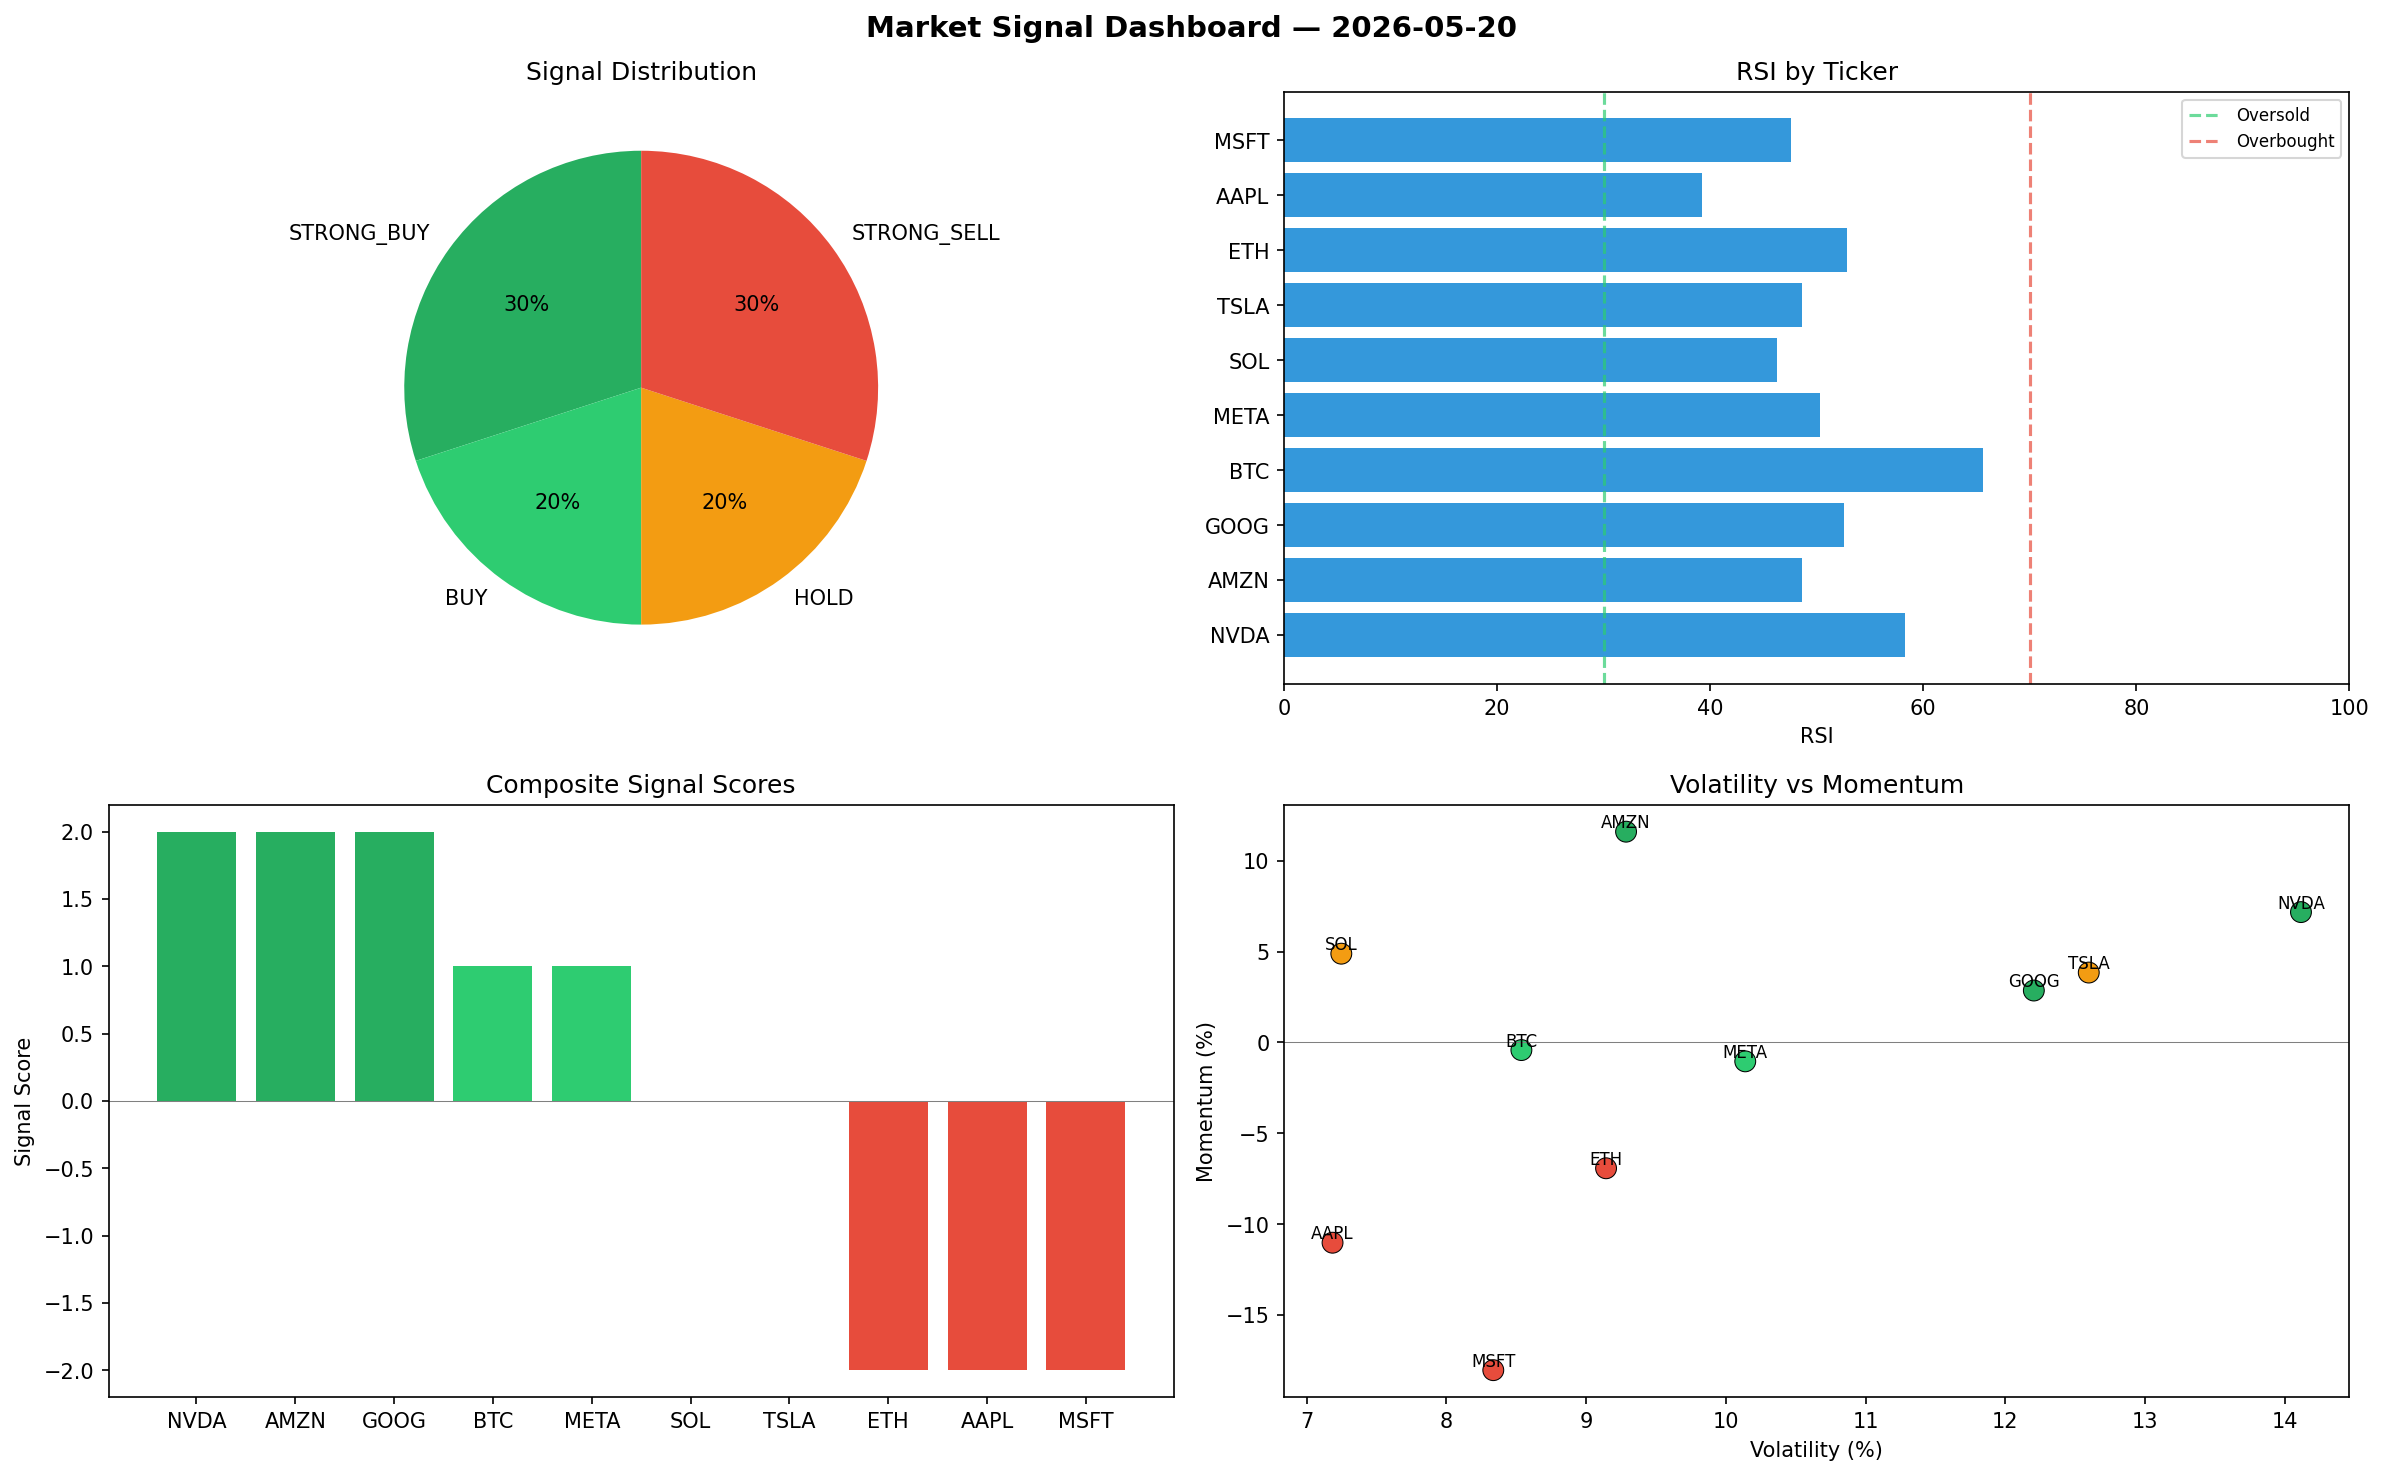
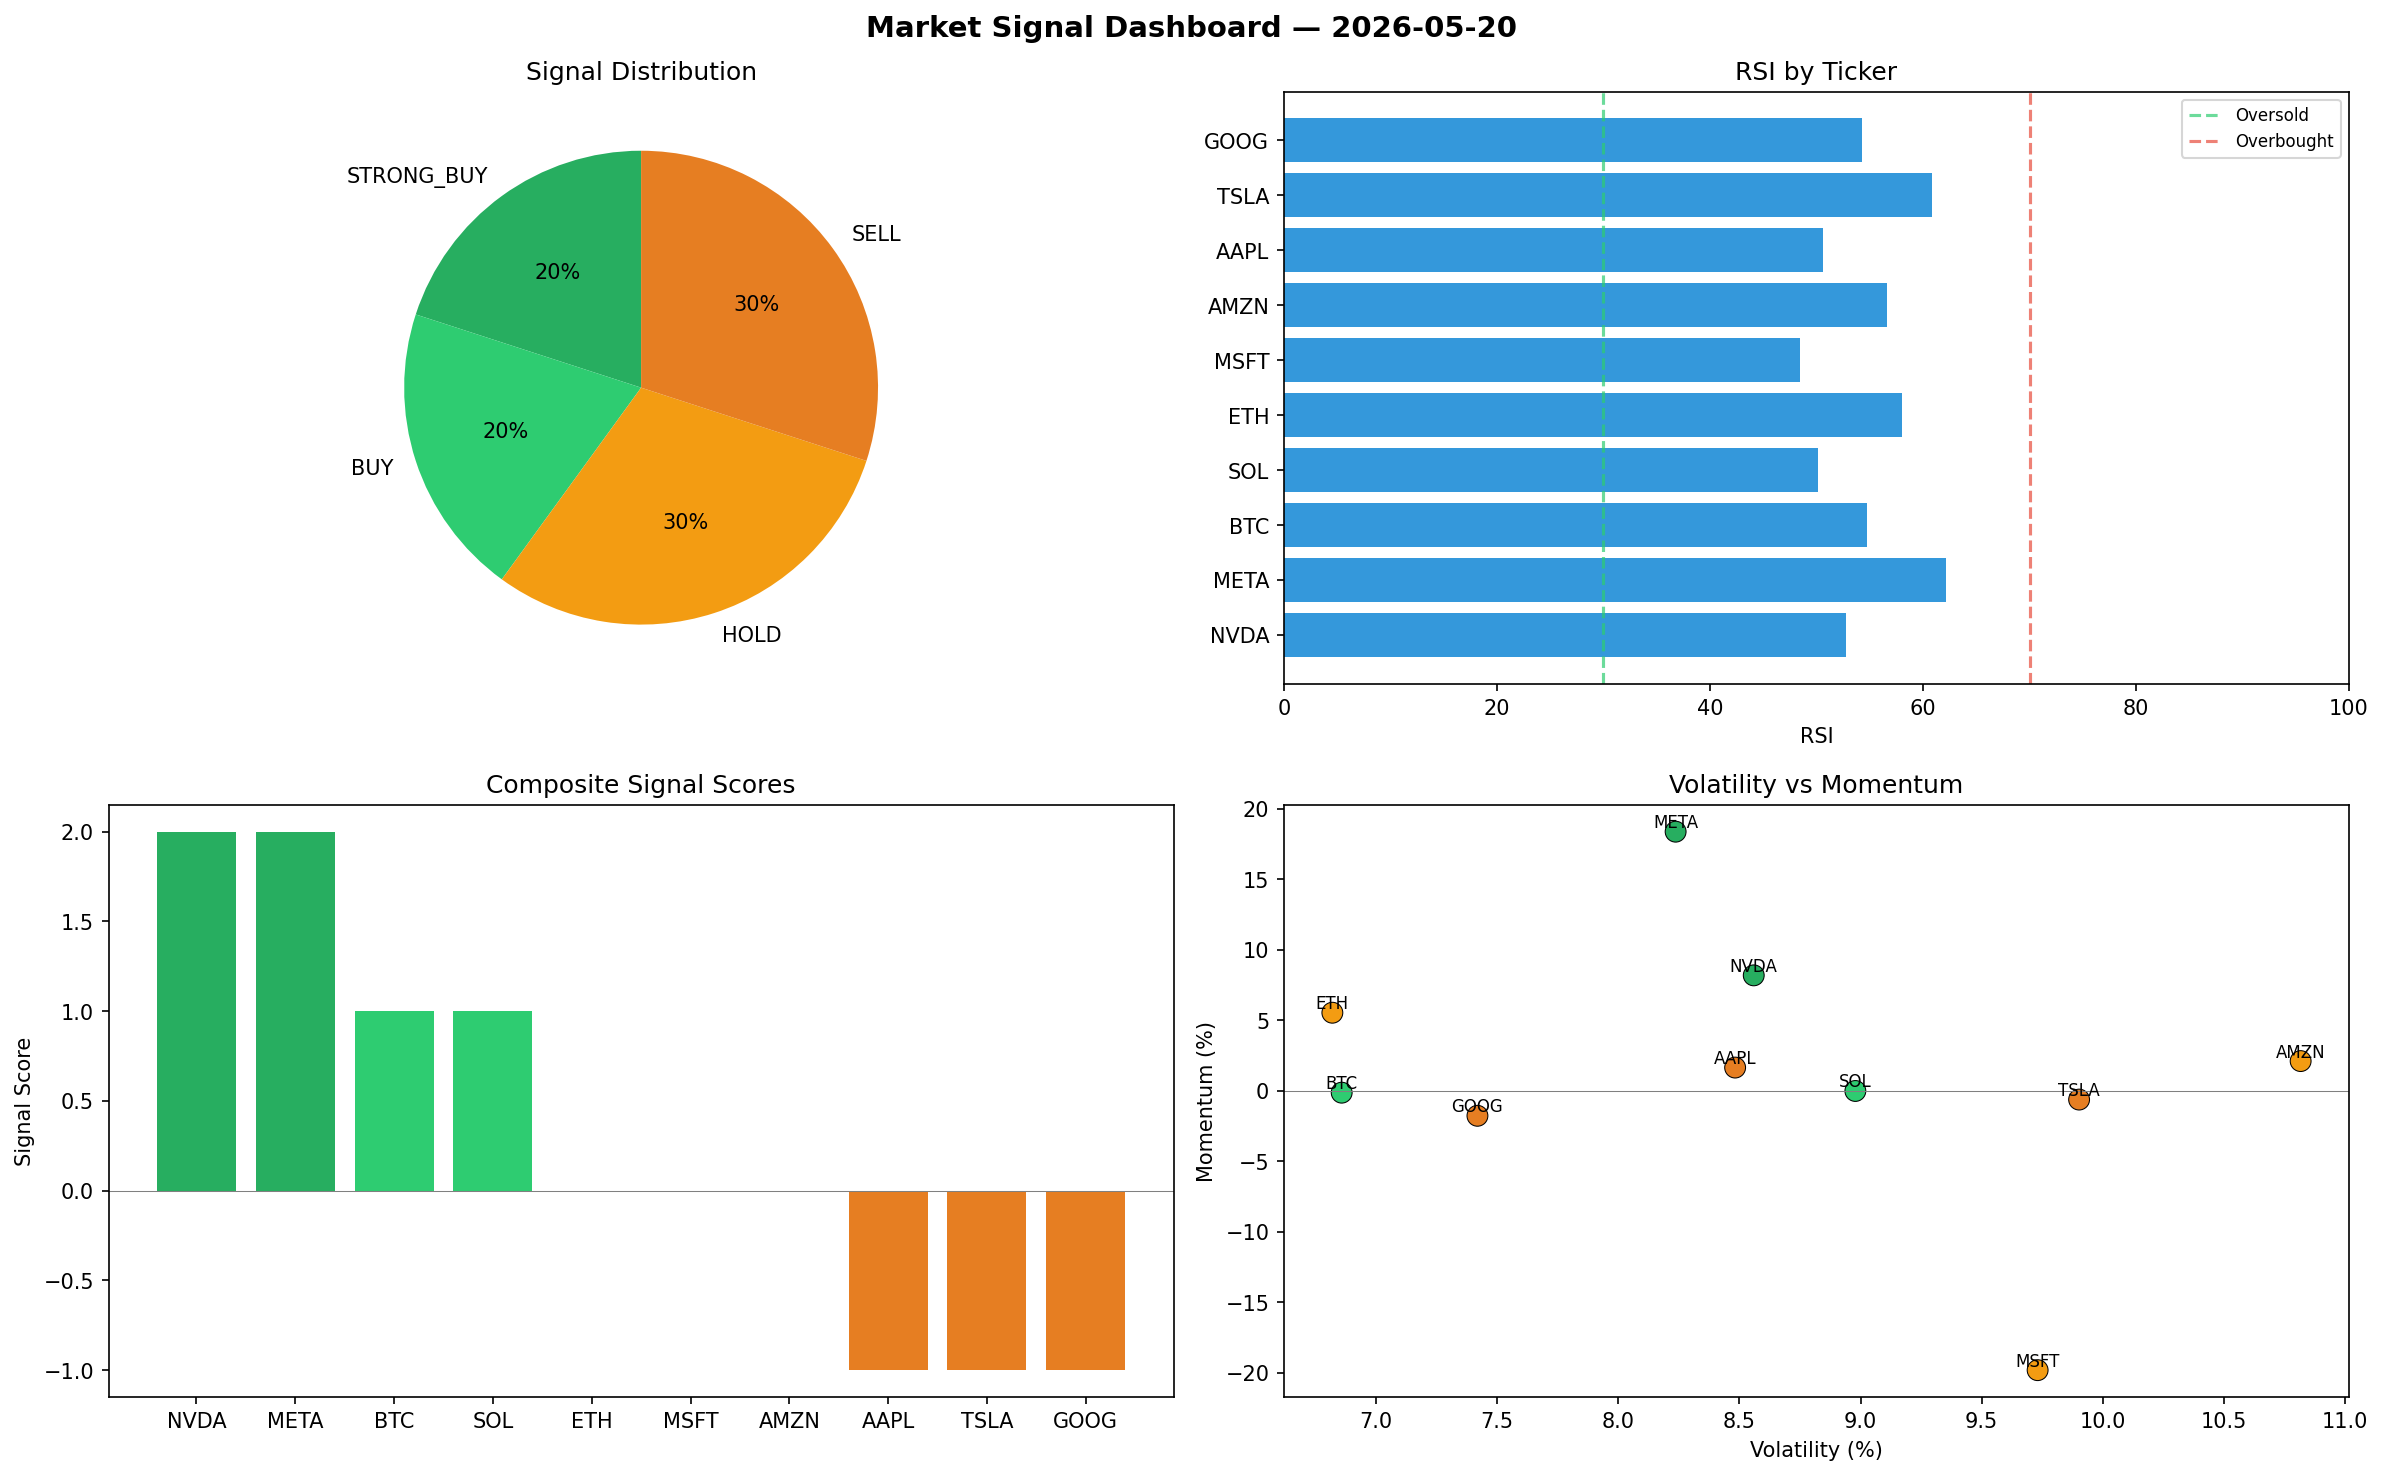
automated-bots: market signals 2026-05-20T22:08

diff --git a/logs/2026-05-20.md b/logs/2026-05-20.md
@@ -1,6 +1,6 @@
 # Market Signal Report — 2026-05-20
 
-**Run ID:** `4e20573279` | **Buy:** 5 | **Sell:** 3 | **Hold:** 2
+**Run ID:** `d71d6f0fff` | **Buy:** 4 | **Sell:** 3 | **Hold:** 3
 
 ![Dashboard](2026-05-20_dashboard.png)
 
@@ -8,28 +8,28 @@
 
 | Ticker | Price | Signal | Score | RSI | Momentum | Confidence |
 |--------|-------|--------|-------|-----|----------|------------|
-| NVDA | $4217.77 | **STRONG_BUY** | 2 | 58.26 | 0.0718 | 0.5 |
-| AMZN | $4406.03 | **STRONG_BUY** | 2 | 48.64 | 0.1161 | 0.5 |
-| GOOG | $2243.51 | **STRONG_BUY** | 2 | 52.55 | 0.0286 | 0.5 |
-| BTC | $721.15 | **BUY** | 1 | 65.65 | -0.0042 | 0.25 |
-| META | $2515.8 | **BUY** | 1 | 50.28 | -0.0104 | 0.25 |
-| SOL | $4627.28 | **HOLD** | 0 | 46.3 | 0.0489 | 0.0 |
-| TSLA | $2729.07 | **HOLD** | 0 | 48.57 | 0.0385 | 0.0 |
-| ETH | $2180.41 | **STRONG_SELL** | -2 | 52.84 | -0.0693 | 0.5 |
-| AAPL | $1427.4 | **STRONG_SELL** | -2 | 39.21 | -0.1103 | 0.5 |
-| MSFT | $2759.08 | **STRONG_SELL** | -2 | 47.55 | -0.1805 | 0.5 |
+| NVDA | $2954.58 | **STRONG_BUY** | 2 | 52.79 | 0.0817 | 0.5 |
+| META | $2455.74 | **STRONG_BUY** | 2 | 62.14 | 0.1836 | 0.5 |
+| BTC | $3369.87 | **BUY** | 1 | 54.7 | -0.0015 | 0.25 |
+| SOL | $1156.14 | **BUY** | 1 | 50.11 | -0.0003 | 0.25 |
+| ETH | $3103.37 | **HOLD** | 0 | 58.05 | 0.0552 | 0.0 |
+| MSFT | $993.83 | **HOLD** | 0 | 48.48 | -0.1983 | 0.0 |
+| AMZN | $3183.41 | **HOLD** | 0 | 56.66 | 0.0209 | 0.0 |
+| AAPL | $733.9 | **SELL** | -1 | 50.62 | 0.0163 | 0.25 |
+| TSLA | $2025.84 | **SELL** | -1 | 60.84 | -0.0064 | 0.25 |
+| GOOG | $242.88 | **SELL** | -1 | 54.3 | -0.0179 | 0.25 |
 
 ## Delta vs Yesterday
 
 | Ticker | Today | Yesterday | Price Change | Signal Changed |
 |--------|-------|-----------|-------------|----------------|
-| NVDA | STRONG_BUY | HOLD | 📈 103.62% | ⚠ YES |
-| AMZN | STRONG_BUY | STRONG_BUY | 📈 103.79% | — |
-| GOOG | STRONG_BUY | HOLD | 📉 -39.7% | ⚠ YES |
-| BTC | BUY | BUY | 📉 -64.0% | — |
-| META | BUY | STRONG_SELL | 📈 206.33% | ⚠ YES |
-| SOL | HOLD | STRONG_BUY | 📈 400.53% | ⚠ YES |
-| TSLA | HOLD | STRONG_SELL | 📉 -0.29% | ⚠ YES |
-| ETH | STRONG_SELL | STRONG_BUY | 📈 45.86% | ⚠ YES |
-| AAPL | STRONG_SELL | STRONG_SELL | 📉 -46.43% | — |
-| MSFT | STRONG_SELL | HOLD | 📈 4.13% | ⚠ YES |
+| NVDA | STRONG_BUY | HOLD | 📈 42.64% | ⚠ YES |
+| META | STRONG_BUY | STRONG_SELL | 📈 199.01% | ⚠ YES |
+| BTC | BUY | BUY | 📈 68.25% | — |
+| SOL | BUY | STRONG_BUY | 📈 25.06% | ⚠ YES |
+| ETH | HOLD | STRONG_BUY | 📈 107.61% | ⚠ YES |
+| MSFT | HOLD | HOLD | 📉 -62.49% | — |
+| AMZN | HOLD | STRONG_BUY | 📈 47.24% | ⚠ YES |
+| AAPL | SELL | STRONG_SELL | 📉 -72.46% | ⚠ YES |
+| TSLA | SELL | STRONG_SELL | 📉 -25.98% | ⚠ YES |
+| GOOG | SELL | HOLD | 📉 -93.47% | ⚠ YES |
